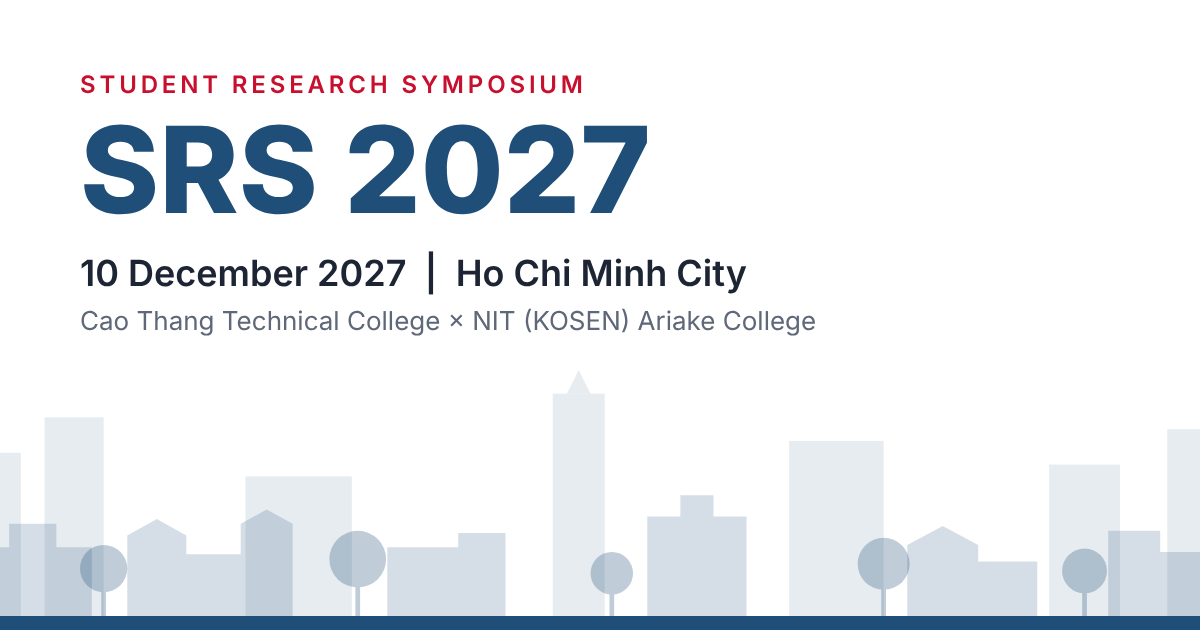
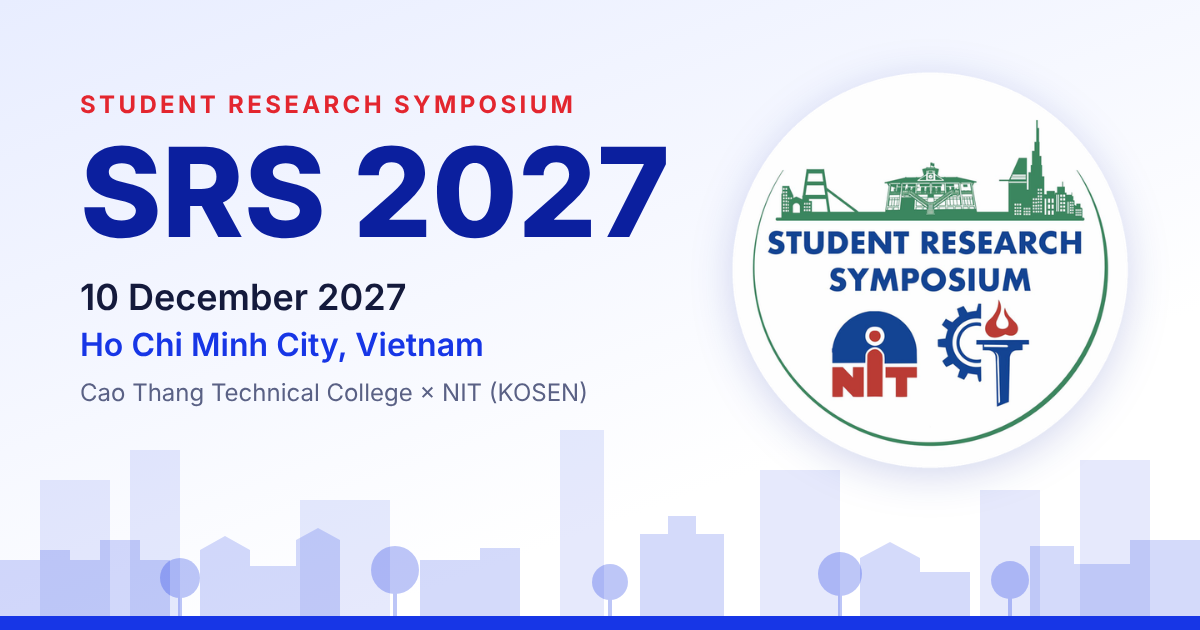
Add files via upload

Changed region(s): [[0.0, 0.1206, 1.0, 1.0], [0.0617, 0.6032, 0.4933, 0.6635]]

diff --git a/assets/style.css b/assets/style.css
@@ -1,15 +1,19 @@
 /* SRS 2027 Online Proceedings — style
    色は :root の変数だけ変えれば全体に反映されます */
 :root{
-  --ink:#1d2433;
-  --muted:#5f6878;
-  --line:#dde1e7;
+  /* カオタンの青を基調にした配色 */
+  --ink:#141a3c;
+  --muted:#5a6185;
+  --line:#dde2f3;
   --bg:#ffffff;
-  --bg-alt:#f5f6f8;
-  --accent:#1f4e79;      /* メインカラー（ロゴに合わせて変更） */
-  --accent-2:#c8102e;    /* 差し色 */
-  --radius:6px;
-  --header-h:56px;
+  --bg-alt:#f2f5fe;
+  --accent:#1736e6;      /* メイン：カオタンの青（画面用に少しだけ落とした値） */
+  --accent-dark:#0b1f9e; /* 濃い青：見出し・フッター */
+  --accent-soft:#e8edff; /* 薄い青：背景 */
+  --accent-2:#e3262f;    /* 差し色：トーチの赤 */
+  --accent-3:#2f8a5c;    /* 補助：大会ロゴの緑 */
+  --radius:8px;
+  --header-h:60px;
   --font:"Inter","Helvetica Neue",Arial,"Noto Sans",sans-serif;
   --font-ja:"Hiragino Sans","Hiragino Kaku Gothic ProN","Noto Sans JP","Yu Gothic",Meiryo,sans-serif;
 }
@@ -29,8 +33,9 @@ img{max-width:100%;height:auto}
 .brand{display:flex;align-items:center;gap:6px;text-decoration:none;color:var(--ink);font-weight:700;letter-spacing:.04em;white-space:nowrap}
 .logo-slot{display:inline-flex;align-items:center;justify-content:center;width:38px;height:38px;border:1px dashed var(--line);border-radius:50%;font-size:.55rem;line-height:1.1;text-align:center;color:var(--muted);font-weight:600;letter-spacing:0}
 .logo{height:38px;width:auto}
+.logo-srs{width:40px;height:40px;display:block}
 .brand-text{margin-left:6px}
-.brand-mark{color:var(--accent)}
+.brand-mark{color:var(--accent-dark)}
 .brand-year{margin-left:.3em;color:var(--muted);font-weight:500}
 .header-right{display:flex;align-items:center;gap:16px}
 .nav{display:flex;gap:16px}
@@ -52,8 +57,14 @@ img{max-width:100%;height:auto}
 .menu-btn[aria-expanded="true"] .bar:nth-child(3){transform:translateY(-6px) rotate(-45deg)}
 
 /* ---------- hero ---------- */
-.hero{position:relative;overflow:hidden;padding:clamp(36px,8vw,72px) 0 clamp(120px,19vw,215px);border-bottom:4px solid var(--accent)}
+.hero{position:relative;overflow:hidden;background:linear-gradient(160deg,var(--accent-soft) 0%,#fff 65%);padding:clamp(36px,8vw,72px) 0 clamp(120px,19vw,215px);border-bottom:4px solid var(--accent)}
 .hero .wrap{position:relative;z-index:1}
+.hero-grid{display:grid;grid-template-columns:minmax(0,1fr) auto;gap:32px;align-items:center}
+.hero-logo{width:clamp(180px,24vw,300px);height:auto;filter:drop-shadow(0 6px 18px rgba(11,31,158,.15))}
+.hero h1{color:var(--accent-dark)}
+.org-logos{display:inline-flex;gap:8px;align-items:center;margin-right:10px;vertical-align:middle}
+.org-logos img{display:block;width:auto;height:34px}
+.hero-org{display:flex;align-items:center;flex-wrap:wrap;gap:4px}
 .hero-city{position:absolute;left:0;right:0;bottom:0;height:clamp(90px,16vw,190px);background:url(cityscape.svg) center bottom / cover no-repeat;pointer-events:none}
 .eyebrow{margin:0;text-transform:uppercase;letter-spacing:.14em;font-size:.8rem;color:var(--accent-2);font-weight:600}
 .hero h1{margin:.25em 0 .35em;font-size:clamp(1.5rem,4.5vw,2.3rem);line-height:1.3}
@@ -64,7 +75,8 @@ img{max-width:100%;height:auto}
 /* ---------- blocks ---------- */
 .block{padding:clamp(32px,6vw,52px) 0}
 .block.alt{background:var(--bg-alt)}
-h2{font-size:clamp(1.25rem,3vw,1.5rem);margin:0 0 20px;padding-bottom:8px;border-bottom:1px solid var(--line)}
+h2{position:relative;font-size:clamp(1.25rem,3vw,1.5rem);margin:0 0 20px;padding-bottom:10px;border-bottom:1px solid var(--line);color:var(--accent-dark)}
+h2::after{content:"";position:absolute;left:0;bottom:-2px;width:56px;height:3px;background:var(--accent);border-radius:2px}
 h3{font-size:1.05rem;margin:24px 0 8px}
 .lead{margin-top:-8px;color:var(--muted)}
 .muted{color:var(--muted)}
@@ -85,7 +97,7 @@ th,td{text-align:left;padding:9px 12px;border-bottom:1px solid var(--line);verti
 th{font-size:.78rem;text-transform:uppercase;letter-spacing:.06em;color:var(--muted);font-weight:600}
 .prog td.time{white-space:nowrap;width:120px;font-variant-numeric:tabular-nums}
 .prog tr.break td{color:var(--muted);background:var(--bg-alt)}
-.prog .stitle{font-weight:600}
+.prog .stitle{font-weight:700;color:var(--accent-dark)}
 .tag{display:inline-block;font-size:.72rem;padding:1px 6px;border-radius:3px;border:1px solid var(--line);color:var(--muted);margin-left:6px;vertical-align:1px;white-space:nowrap}
 .slots{list-style:none;margin:8px 0 0;padding:0}
 .slots li{display:grid;grid-template-columns:48px 56px 1fr;gap:6px;padding:6px 0;border-top:1px dotted var(--line);font-size:.88rem}
@@ -119,13 +131,17 @@ th{font-size:.78rem;text-transform:uppercase;letter-spacing:.06em;color:var(--mu
 
 .award-item{padding:10px 0;border-bottom:1px solid var(--line)}
 .award-name{font-weight:600;color:var(--accent-2)}
-.site-footer{border-top:1px solid var(--line);padding:24px 0;font-size:.85rem}
+.site-footer{background:var(--accent-dark);color:#e6eaff;padding:32px 0;font-size:.85rem}
+.site-footer .muted{color:#b9c2f5}
+.site-footer a{color:#fff}
+.ft-logos{display:inline-flex;gap:12px;align-items:center;background:#fff;border-radius:999px;padding:6px 16px;margin-bottom:12px}
+.ft-logos img{height:40px;width:auto}
 
 a.plain{color:inherit;text-decoration:none}
 a.plain:hover{color:var(--accent);text-decoration:underline}
 a.ptitle{color:var(--ink);text-decoration:none}
 a.ptitle:hover{color:var(--accent);text-decoration:underline}
-.prog tr.tour td{background:#fbf3f4}
+.prog tr.tour td{background:#fff1f2}
 td.deadline{font-weight:600;color:var(--accent-2)}
 .small{font-size:.85rem}
 
@@ -149,7 +165,7 @@ td.deadline{font-weight:600;color:var(--accent-2)}
 .tl-date{font-weight:600;color:var(--accent);font-variant-numeric:tabular-nums}
 
 /* ---------- companies ---------- */
-.companies{background:linear-gradient(180deg,#f0f4f9,#fff)}
+.companies{background:linear-gradient(180deg,var(--accent-soft),#fff)}
 .co-lead{max-width:780px;font-size:1.05rem;margin:0 0 24px}
 .co-grid{display:grid;grid-template-columns:1fr 1fr;gap:20px}
 .co-card{background:#fff;border:1px solid var(--line);border-top:3px solid var(--accent);border-radius:var(--radius);padding:18px 20px}
@@ -171,7 +187,7 @@ td.deadline{font-weight:600;color:var(--accent-2)}
 .partners{display:flex;flex-wrap:wrap;gap:20px;align-items:center}
 .partners img{height:48px;width:auto}
 .footer-grid{display:grid;grid-template-columns:1fr 1fr;gap:24px}
-.ft-brand{font-weight:700;color:var(--accent);margin:0 0 4px}
+.ft-brand{font-weight:700;color:#fff;margin:0 0 4px}
 .site-footer p{margin:0 0 6px}
 
 /* ---------- abstract page ---------- */
@@ -239,6 +255,8 @@ html:lang(ja) .abs-full{text-align:left}
   .pager{grid-template-columns:1fr}
   .pg-next{text-align:left}
   .pdf-frame.a4,.pdf-frame.poster{max-height:70vh}
+  .hero-grid{grid-template-columns:1fr}
+  .hero-logo{order:-1;width:140px;justify-self:start}
   .hero-meta .sep{display:none}
   .hero-meta span{display:block}
   .facts{grid-template-columns:1fr;gap:0}

diff --git a/index.html b/index.html
@@ -18,7 +18,7 @@
 <meta property="og:locale:alternate" content="ja_JP">
 <meta property="og:locale:alternate" content="vi_VN">
 <meta name="twitter:card" content="summary_large_image">
-<link rel="icon" href="assets/favicon.svg" type="image/svg+xml">
+<link rel="icon" href="assets/favicon.png" type="image/png">
 <link rel="stylesheet" href="assets/style.css">
 </head>
 <body>
@@ -26,8 +26,7 @@
 <header class="site-header">
   <div class="wrap header-inner">
     <a class="brand" href="#top">
-      <!-- 主催校ロゴ：画像ができたら各 span を <img class="logo" src="assets/logo-cttc.png" alt="Cao Thang Technical College"> のように差し替え -->
-      <span class="logo-slot">CTTC</span><span class="logo-slot">NIT<br>Ariake</span>
+      <img class="logo-srs" src="assets/logo-srs-128.png" alt="SRS logo" width="40" height="40">
       <span class="brand-text"><span class="brand-mark">SRS</span><span class="brand-year">2027</span></span>
     </a>
     <div class="header-right">
@@ -53,11 +52,12 @@
 
   <section class="hero">
     <div class="hero-city" aria-hidden="true"></div>
-    <div class="wrap">
+    <div class="wrap hero-grid">
+      <div class="hero-text">
       <p class="eyebrow" data-i18n="hero.eyebrow"></p>
       <h1 id="ev-name"></h1>
       <p class="hero-meta"><span id="ev-date"></span><span class="sep" aria-hidden="true">|</span><span id="ev-venue"></span></p>
-      <p class="hero-org" id="ev-org"></p>
+      <p class="hero-org"><span class="org-logos"><img src="assets/logo-cttc.png" alt="" height="34"><img src="assets/logo-nit.png" alt="" height="30"></span><span id="ev-org"></span></p>
       <p class="countdown" id="countdown"></p>
       <div class="cta">
         <a class="btn" href="#program" data-i18n="hero.ctaProgram"></a>
@@ -65,6 +65,9 @@
         <a class="btn ghost" href="#guidelines" data-i18n="hero.ctaGuide"></a>
         <a class="btn ghost" href="#companies" data-i18n="hero.ctaCompanies"></a>
       </div>
+      </div>
+      <!-- 大会ロゴ（仮置き）：差し替えは assets/logo-srs.png を同名で置き換え -->
+      <img class="hero-logo" src="assets/logo-srs.png" alt="Student Research Symposium logo" width="480" height="480">
     </div>
   </section>
 
@@ -228,6 +231,11 @@
 <footer class="site-footer">
   <div class="wrap footer-grid">
     <div>
+      <div class="ft-logos">
+        <img src="assets/logo-srs-128.png" alt="SRS logo" height="48">
+        <img src="assets/logo-cttc.png" alt="Cao Thang Technical College" height="48">
+        <img src="assets/logo-nit.png" alt="National Institute of Technology (KOSEN)" height="48">
+      </div>
       <p class="ft-brand">SRS 2027</p>
       <p id="ft-sec"></p>
       <p id="ft-addr" class="muted"></p>

diff --git a/paper.html b/paper.html
@@ -8,7 +8,7 @@
 <meta property="og:site_name" content="SRS 2027">
 <meta property="og:image" content="https://makiko-takagi.github.io/srs2027/assets/og-image.png">
 <meta name="twitter:card" content="summary_large_image">
-<link rel="icon" href="assets/favicon.svg" type="image/svg+xml">
+<link rel="icon" href="assets/favicon.png" type="image/png">
 <link rel="stylesheet" href="assets/style.css">
 </head>
 <body class="paper-page">
@@ -16,7 +16,7 @@
 <header class="site-header">
   <div class="wrap header-inner">
     <a class="brand" data-href-lang="index.html">
-      <span class="logo-slot">CTTC</span><span class="logo-slot">NIT<br>Ariake</span>
+      <img class="logo-srs" src="assets/logo-srs-128.png" alt="SRS logo" width="40" height="40">
       <span class="brand-text"><span class="brand-mark">SRS</span><span class="brand-year">2027</span></span>
     </a>
     <div class="header-right">
@@ -44,6 +44,11 @@
 
 <footer class="site-footer">
   <div class="wrap">
+    <div class="ft-logos">
+      <img src="assets/logo-srs-128.png" alt="SRS logo" height="48">
+      <img src="assets/logo-cttc.png" alt="Cao Thang Technical College" height="48">
+      <img src="assets/logo-nit.png" alt="National Institute of Technology (KOSEN)" height="48">
+    </div>
     <p id="ft-cite"></p>
     <p id="ft-meta" class="muted"></p>
   </div>

diff --git a/README.md b/README.md
@@ -54,10 +54,12 @@ SRSについて → 重要日程（過去の日付は自動で薄く表示）→
 - 写真（`gallery`）と協賛・協力（`partners`）は、データが空のあいだは表示されません
 - ヒーローのカウントダウンは `event.startDate` から自動計算です
 
-## ロゴと街並みイラスト
+## ロゴ・配色
 
-- ヘッダーの丸い点線枠2つが主催校ロゴの仮置きです。`index.html` と `paper.html` の `<span class="logo-slot">` を `<img class="logo" src="assets/logo-cttc.png" alt="Cao Thang Technical College">` のように差し替えます
-- トップの街並みは `assets/cityscape.svg` を同名で置き換えれば反映されます（横長、下端揃えで表示）
+- `assets/logo-srs.png`（大会ロゴ・仮置き）、`assets/logo-srs-128.png`（ヘッダー・フッター用の小さい版）、`assets/logo-cttc.png`、`assets/logo-nit.png`
+- 大会ロゴが確定したら、同じファイル名で置き換えれば全ページに反映されます（`favicon.png` と共有用の `og-image.png` は別途作り直し）
+- 配色は `assets/style.css` 冒頭の `:root` で管理しています。メインはカオタンの青（`--accent`）、差し色はトーチの赤（`--accent-2`）
+- トップの街並みは `assets/cityscape.svg` を同名で置き換えれば反映されます
 
 ## 多言語対応（英・日・越）
 
